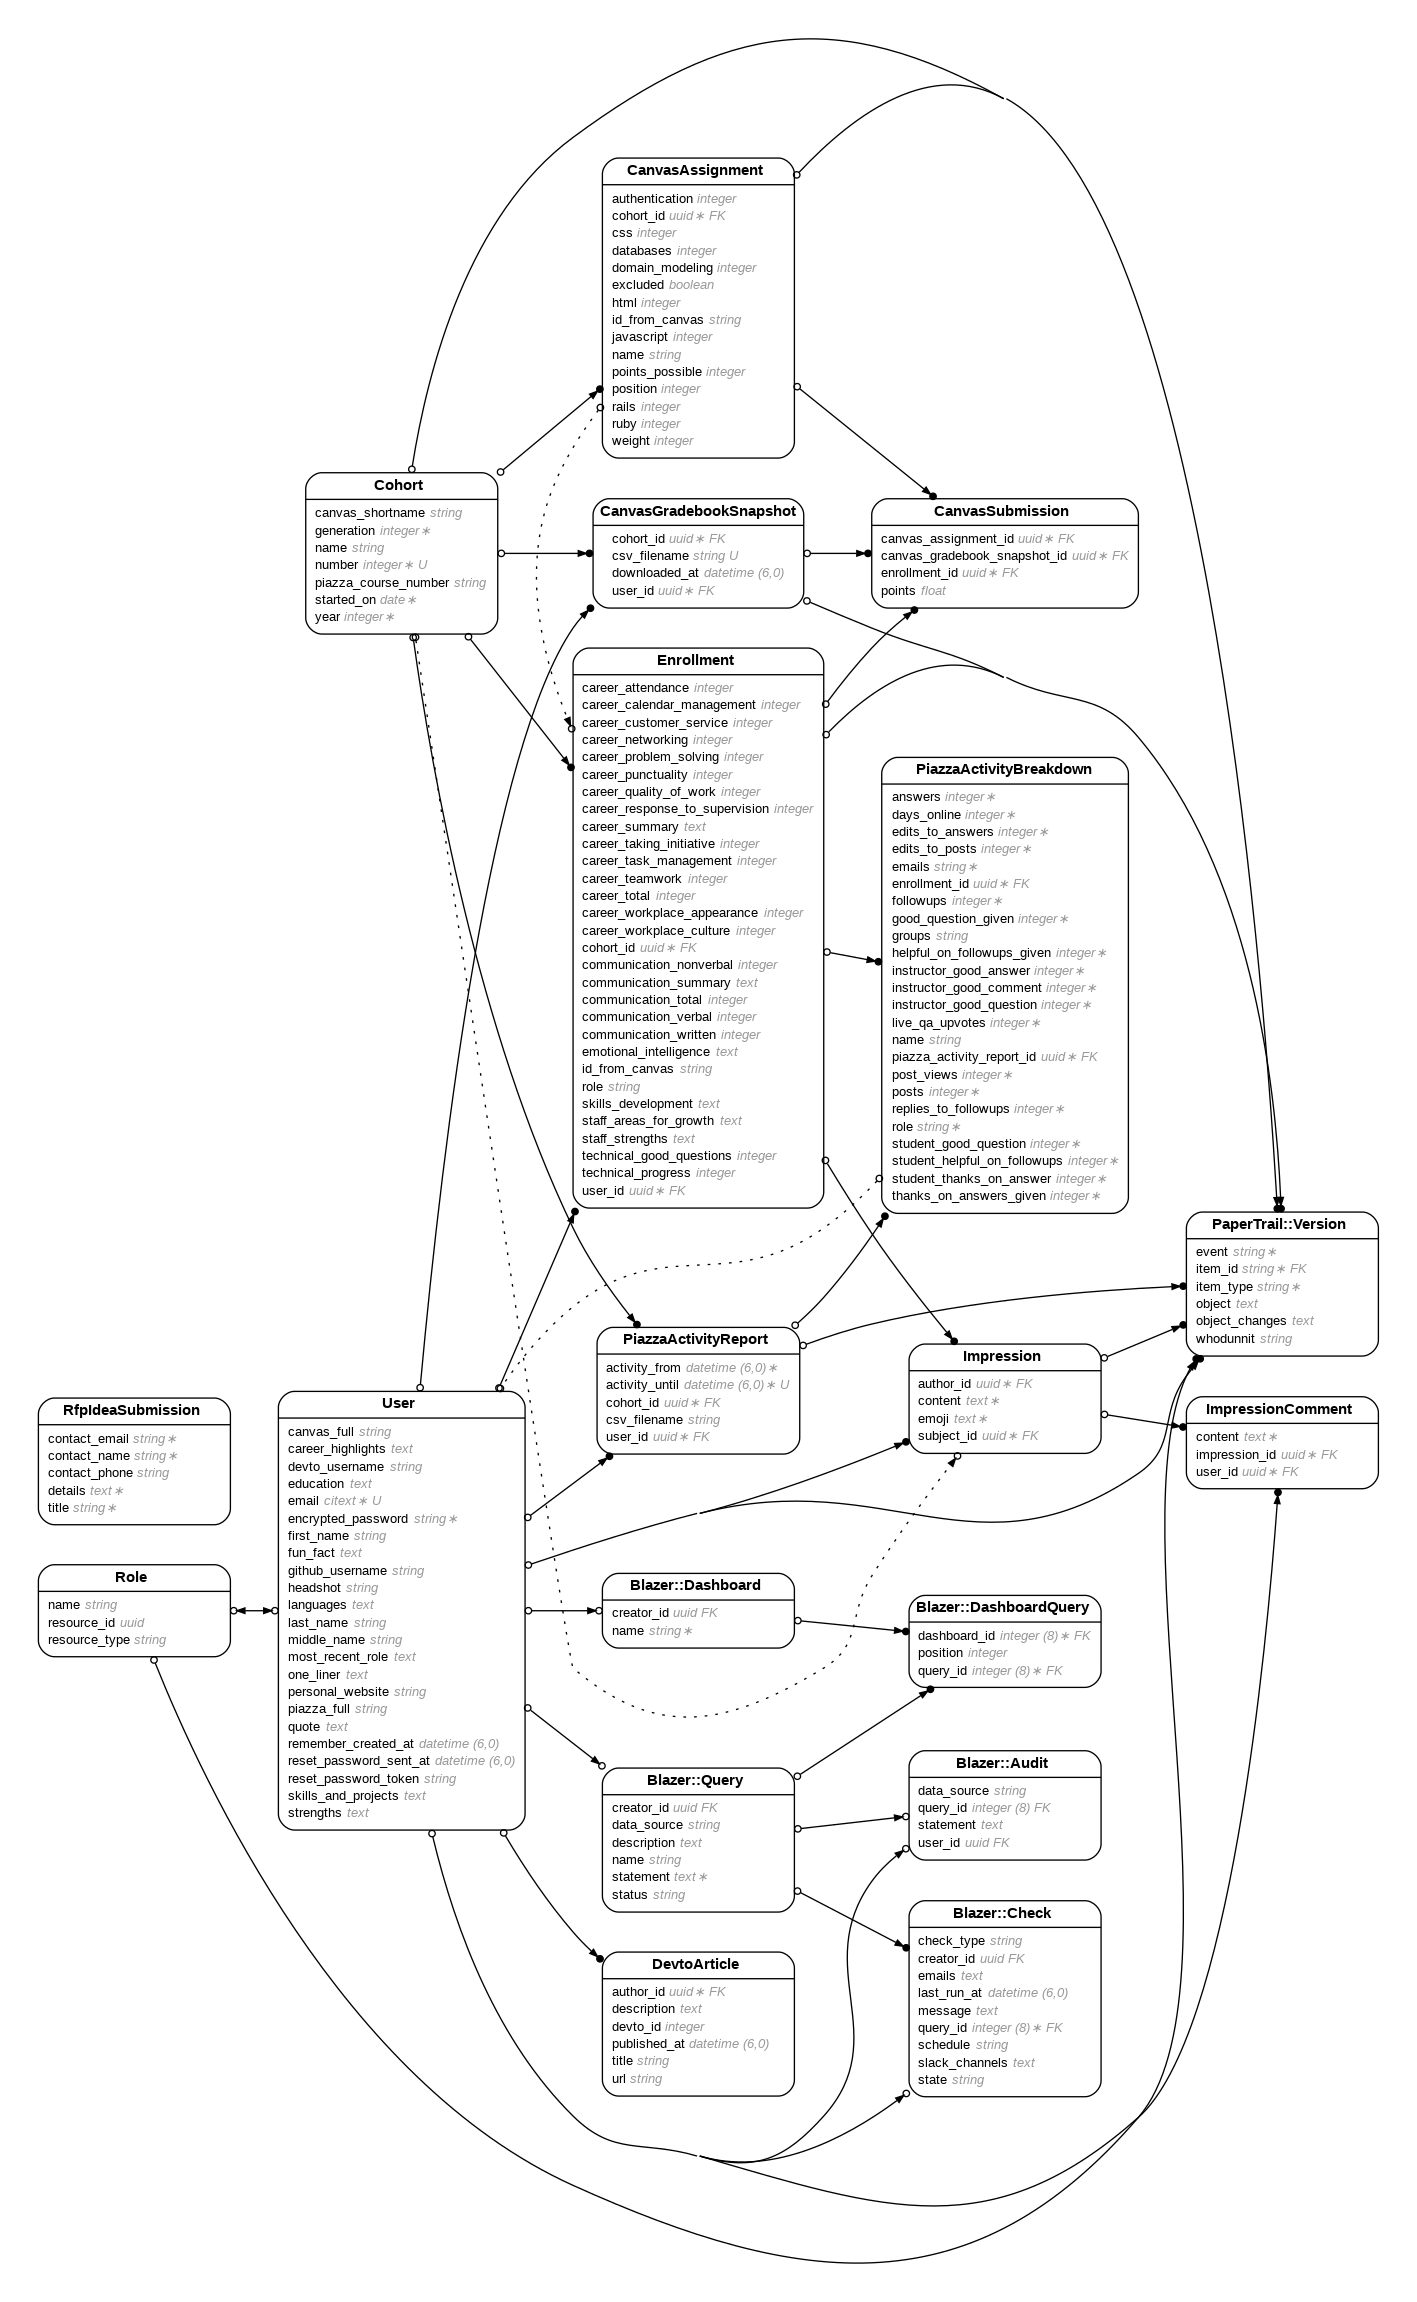
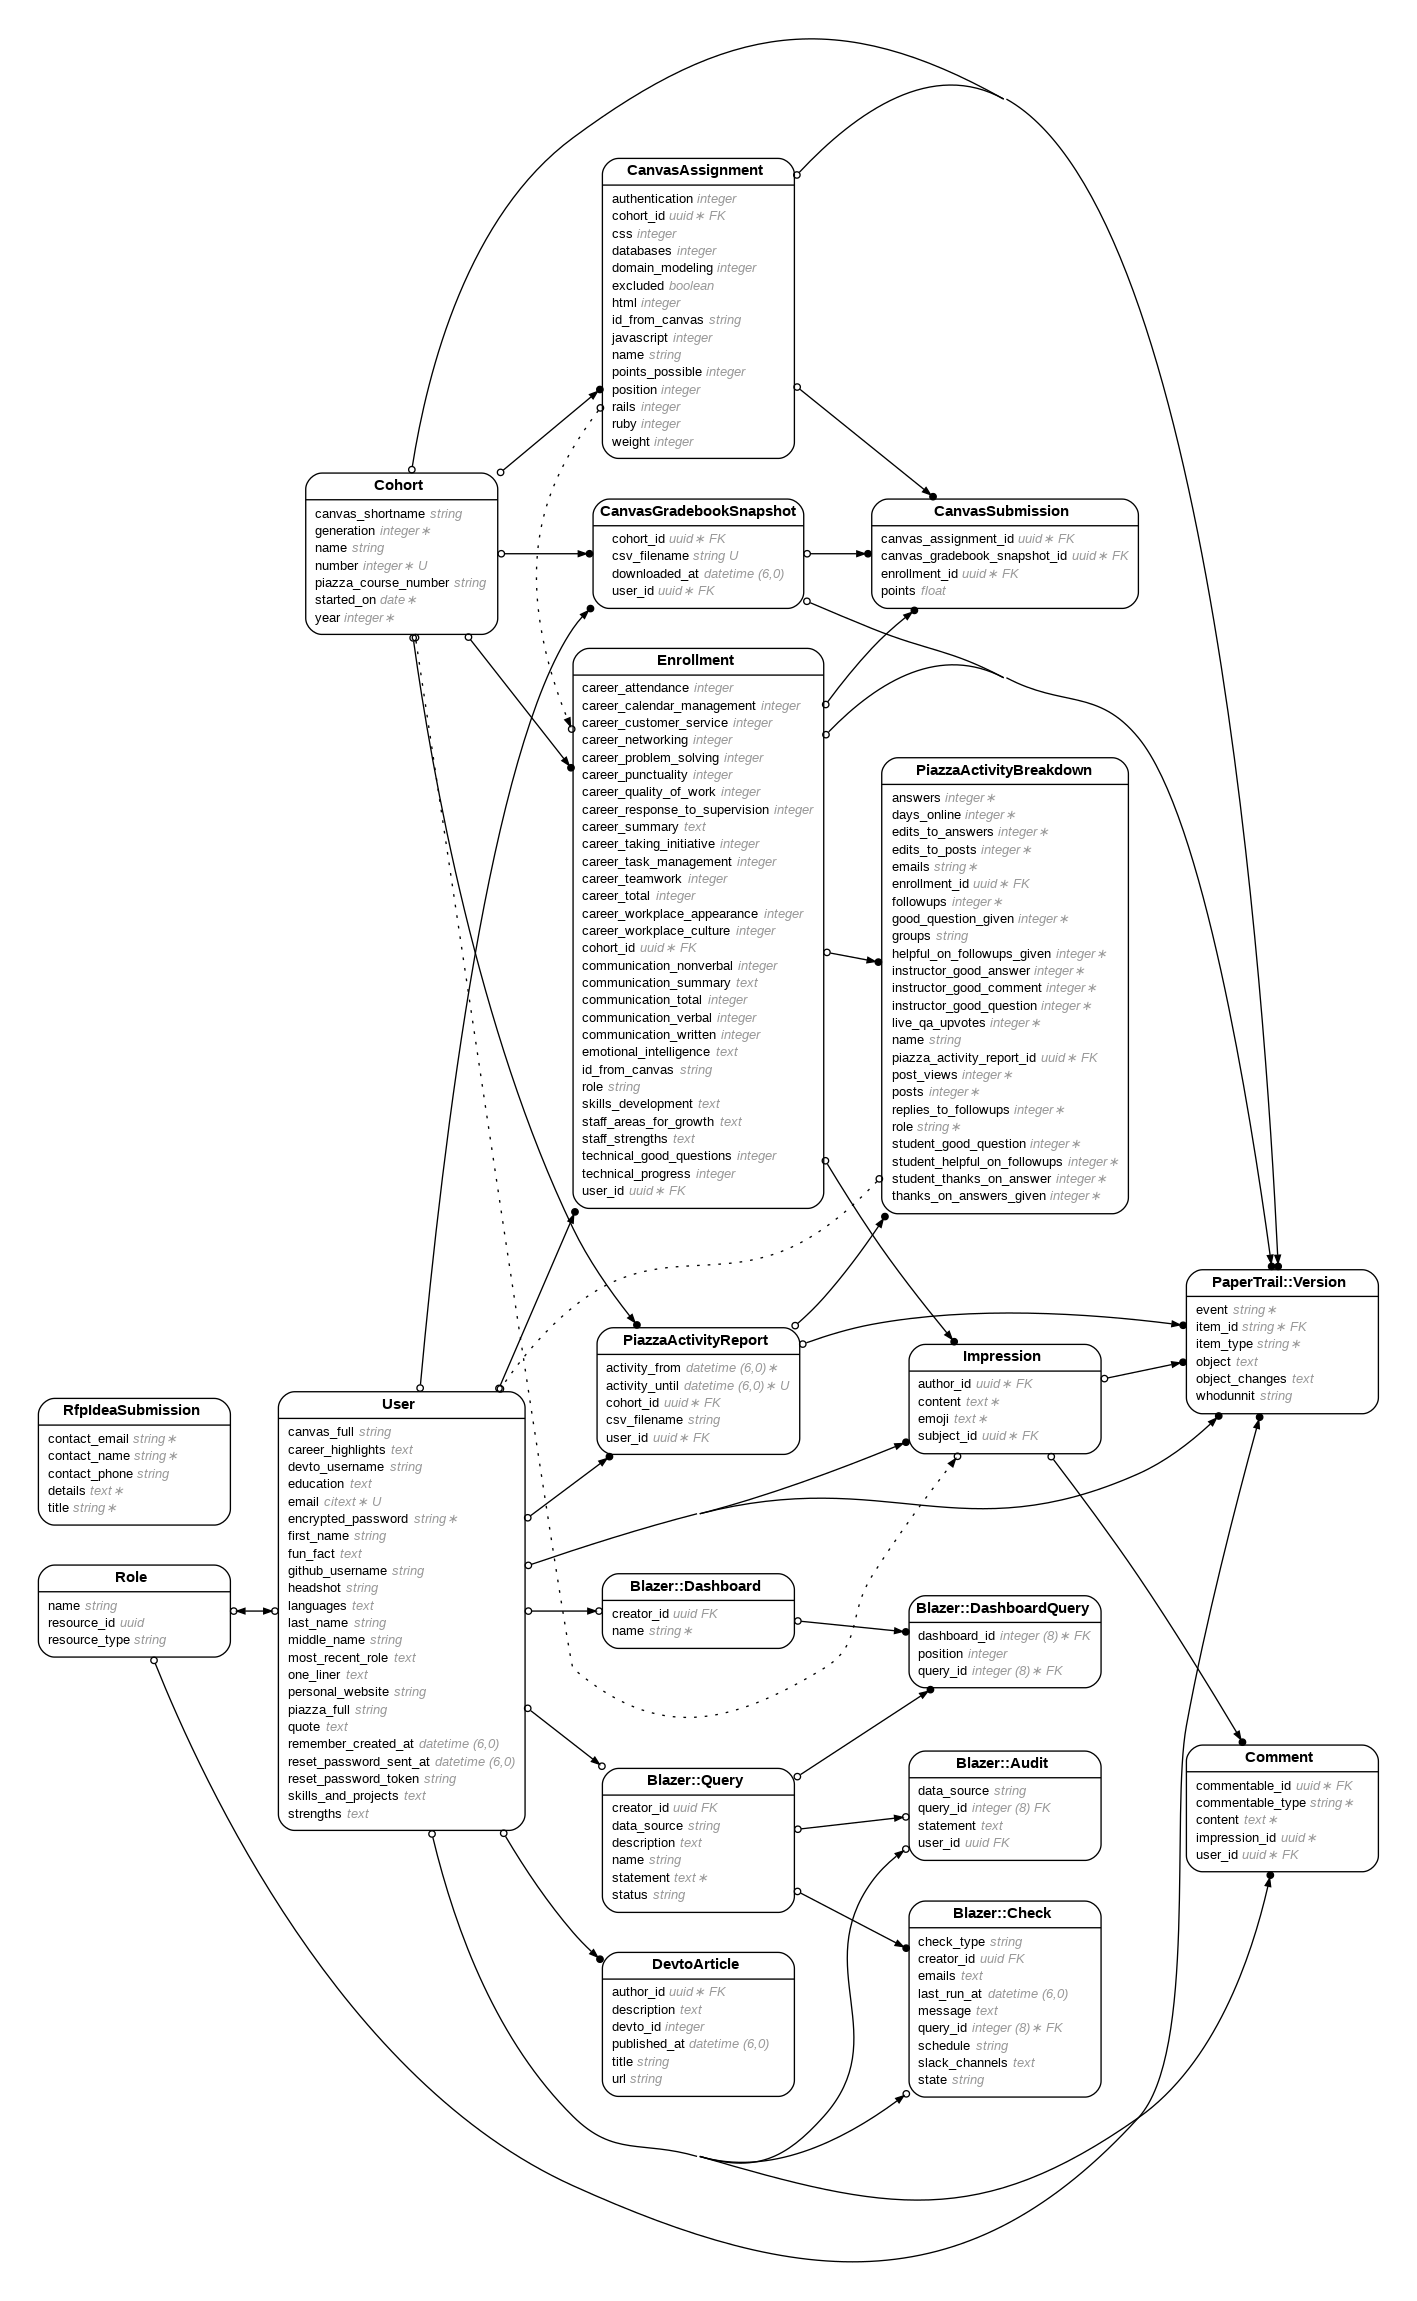
Made coments polymorphic

diff --git a/db/schema.rb b/db/schema.rb
@@ -10,7 +10,7 @@
 #
 # It's strongly recommended that you check this file into your version control system.
 
-ActiveRecord::Schema[7.0].define(version: 2024_08_14_152917) do
+ActiveRecord::Schema[7.0].define(version: 2024_09_11_151809) do
   # These are extensions that must be enabled in order to support this database
   enable_extension "citext"
   enable_extension "pgcrypto"
@@ -128,6 +128,19 @@ ActiveRecord::Schema[7.0].define(version: 2024_08_14_152917) do
     t.date "started_on"
   end
 
+  create_table "comments", id: :uuid, default: -> { "gen_random_uuid()" }, force: :cascade do |t|
+    t.uuid "impression_id", null: false
+    t.uuid "user_id", null: false
+    t.text "content", null: false
+    t.datetime "created_at", null: false
+    t.datetime "updated_at", null: false
+    t.string "commentable_type", null: false
+    t.uuid "commentable_id", null: false
+    t.index ["commentable_type", "commentable_id"], name: "index_comments_on_commentable"
+    t.index ["impression_id"], name: "index_comments_on_impression_id"
+    t.index ["user_id"], name: "index_comments_on_user_id"
+  end
+
   create_table "devto_articles", id: :uuid, default: -> { "gen_random_uuid()" }, force: :cascade do |t|
     t.integer "devto_id"
     t.string "title"
@@ -177,16 +190,6 @@ ActiveRecord::Schema[7.0].define(version: 2024_08_14_152917) do
     t.index ["id_from_canvas"], name: "index_enrollments_on_id_from_canvas"
     t.index ["user_id", "cohort_id"], name: "index_enrollments_on_user_id_and_cohort_id", unique: true
     t.index ["user_id"], name: "index_enrollments_on_user_id"
-  end
-
-  create_table "impression_comments", id: :uuid, default: -> { "gen_random_uuid()" }, force: :cascade do |t|
-    t.uuid "impression_id", null: false
-    t.uuid "user_id", null: false
-    t.text "content", null: false
-    t.datetime "created_at", null: false
-    t.datetime "updated_at", null: false
-    t.index ["impression_id"], name: "index_impression_comments_on_impression_id"
-    t.index ["user_id"], name: "index_impression_comments_on_user_id"
   end
 
   create_table "impressions", id: :uuid, default: -> { "gen_random_uuid()" }, force: :cascade do |t|

diff --git a/app/controllers/cohort/comments_controller.rb b/app/controllers/cohort/comments_controller.rb
@@ -1,0 +1,41 @@
+class Cohort::CommentsController < ApplicationController
+  before_action :set_impression
+  before_action :set_cohort
+
+  # POST /cohorts/:cohort_id/impressions/:impression_id/comments
+  def create
+    @impression = Impression.find(params[:impression_id])
+    @comment = @impression.comments.new(comment_params)
+    @comment.user = current_user
+    @comment.impression = @impression
+    authorize @comment
+
+    if @comment.save
+      redirect_to cohort_impression_path(@cohort, @impression), notice: "Comment was successfully added."
+    else
+      redirect_to cohort_impression_path(@cohort, @impression), alert: "Failed to add comment."
+    end
+  end
+
+  # DELETE /cohorts/:cohort_id/impressions/:impression_id/comments/:id
+  def destroy
+    @comment = @impression.comments.find(params[:id])
+    authorize @comment
+    @comment.destroy
+    redirect_to cohort_impression_path(@cohort, @impression), notice: "Comment was successfully deleted."
+  end
+
+  private
+
+  def set_cohort
+    @cohort = Cohort.find(params[:cohort_id]) if params[:cohort_id].present?
+  end
+
+  def set_impression
+    @impression = Impression.find(params[:impression_id])
+  end
+
+  def comment_params
+    params.require(:comment).permit(:content, :commentable_type, :commentable_id, :impression_id)
+  end
+end

diff --git a/config/routes.rb b/config/routes.rb
@@ -2,7 +2,7 @@ require "sidekiq/web"
 require "sidekiq/cron/web"
 
 Rails.application.routes.draw do
-  get "impression_comments/create"
+  get "comments/create"
   constraints subdomain: "dashboard" do
     authenticate :user, ->(user) { ApplicationPolicy.new(user, nil).admin_panel_accessible? } do
       mount RailsAdmin::Engine, at: "admin", as: "rails_admin"
@@ -27,6 +27,7 @@ Rails.application.routes.draw do
         end
       end
       resources :impressions, module: :cohort do
+        resources :comments, only: [:create, :edit, :update, :destroy]
         collection do
           get :search
         end
@@ -35,7 +36,7 @@ Rails.application.routes.draw do
     end
 
     resources :impressions do
-      resources :impression_comments, only: [:create, :edit, :update, :destroy]
+      resources :comments, only: [:create, :edit, :update, :destroy]
       get :search, to: "impressions#search", on: :collection
     end
 

diff --git a/app/models/comment.rb b/app/models/comment.rb
@@ -1,0 +1,26 @@
+# == Schema Information
+#
+# Table name: comments
+#
+#  id               :uuid             not null, primary key
+#  commentable_type :string           not null
+#  content          :text             not null
+#  created_at       :datetime         not null
+#  updated_at       :datetime         not null
+#  commentable_id   :uuid             not null
+#  impression_id    :uuid             not null
+#  user_id          :uuid             not null
+#
+# Indexes
+#
+#  index_comments_on_commentable    (commentable_type,commentable_id)
+#  index_comments_on_impression_id  (impression_id)
+#  index_comments_on_user_id        (user_id)
+#
+class Comment < ApplicationRecord
+  belongs_to :commentable, polymorphic: true
+  belongs_to :user
+  belongs_to :impression
+
+  validates :content, presence: true
+end

diff --git a/spec/models/comment_spec.rb b/spec/models/comment_spec.rb
@@ -1,0 +1,24 @@
+# == Schema Information
+#
+# Table name: comments
+#
+#  id               :uuid             not null, primary key
+#  commentable_type :string           not null
+#  content          :text             not null
+#  created_at       :datetime         not null
+#  updated_at       :datetime         not null
+#  commentable_id   :uuid             not null
+#  impression_id    :uuid             not null
+#  user_id          :uuid             not null
+#
+# Indexes
+#
+#  index_comments_on_commentable    (commentable_type,commentable_id)
+#  index_comments_on_impression_id  (impression_id)
+#  index_comments_on_user_id        (user_id)
+#
+require 'rails_helper'
+
+RSpec.describe Comment, type: :model do
+  pending "add some examples to (or delete) #{__FILE__}"
+end

diff --git a/app/models/impression.rb b/app/models/impression.rb
@@ -21,15 +21,12 @@
 #  fk_rails_...  (subject_id => enrollments.id)
 #
 class Impression < ApplicationRecord
-  include Slackable
-  include Ransackable
-  include Emojiable
+  include Slackable, Ransackable, Emojiable
 
   has_paper_trail skip: [:created_at, :updated_at]
-
-  belongs_to :author, class_name: "User"
-  belongs_to :subject, class_name: "Enrollment"
-  has_many :impression_comments, dependent: :destroy
+  belongs_to :author, class_name: "User", foreign_key: "author_id"
+  belongs_to :subject, class_name: "Enrollment", foreign_key: "subject_id"
+  has_many :comments, as: :commentable, dependent: :destroy
 
   validates :content, presence: true
 

diff --git a/spec/helpers/comments_helper_spec.rb b/spec/helpers/comments_helper_spec.rb
@@ -1,15 +1,15 @@
 require 'rails_helper'
 
 # Specs in this file have access to a helper object that includes
-# the ImpressionCommentsHelper. For example:
+# the CommentsHelper. For example:
 #
-# describe ImpressionCommentsHelper do
+# describe CommentsHelper do
 #   describe "string concat" do
 #     it "concats two strings with spaces" do
 #       expect(helper.concat_strings("this","that")).to eq("this that")
 #     end
 #   end
 # end
-RSpec.describe ImpressionCommentsHelper, type: :helper do
+RSpec.describe CommentsHelper, type: :helper do
   pending "add some examples to (or delete) #{__FILE__}"
 end

diff --git a/db/migrate/20240814152917_create_comments.rb b/db/migrate/20240814152917_create_comments.rb
@@ -1,0 +1,13 @@
+class CreateComments < ActiveRecord::Migration[7.0]
+  def change
+    create_table :comments, id: :uuid do |t|
+      t.uuid :impression_id, null: false, foreign_key: true
+      t.uuid :user_id, null: false, foreign_key: true
+      t.text :content, null: false
+      t.timestamps
+    end
+
+    add_index :comments, :impression_id
+    add_index :comments, :user_id
+  end
+end

diff --git a/spec/requests/comments_spec.rb b/spec/requests/comments_spec.rb
@@ -1,9 +1,9 @@
 require 'rails_helper'
 
-RSpec.describe "ImpressionComments", type: :request do
+RSpec.describe "Comments", type: :request do
   describe "GET /create" do
     it "returns http success" do
-      get "/impression_comments/create"
+      get "/comments/create"
       expect(response).to have_http_status(:success)
     end
   end

diff --git a/app/models/user.rb b/app/models/user.rb
@@ -50,6 +50,8 @@ class User < ApplicationRecord
   has_many :enrollments, dependent: :destroy
   has_many :cohorts, through: :enrollments, source: :cohort
   has_many :authored_impressions, class_name: "Impression", foreign_key: "author_id"
+  has_many :comments, as: :commentable
+
 
   scope :default_order, -> { order(:first_name) }
 

diff --git a/spec/views/comments/create.html.erb_spec.rb b/spec/views/comments/create.html.erb_spec.rb
@@ -1,5 +1,5 @@
 require 'rails_helper'
 
-RSpec.describe "impression_comments/create.html.erb", type: :view do
+RSpec.describe "comments/create.html.erb", type: :view do
   pending "add some examples to (or delete) #{__FILE__}"
 end

diff --git a/db/migrate/20240911151809_add_commentable_to_comments.rb b/db/migrate/20240911151809_add_commentable_to_comments.rb
@@ -1,0 +1,5 @@
+class AddCommentableToComments < ActiveRecord::Migration[7.0]
+  def change
+    add_reference :comments, :commentable, polymorphic: true, null: false, type: :uuid
+  end
+end
